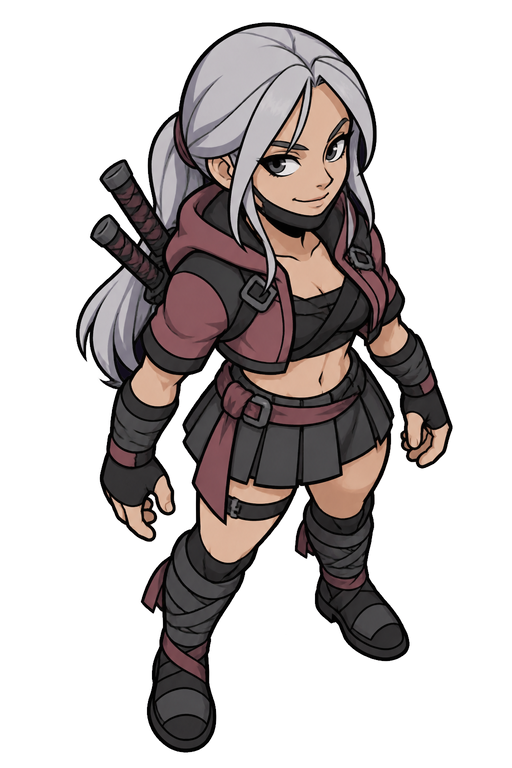
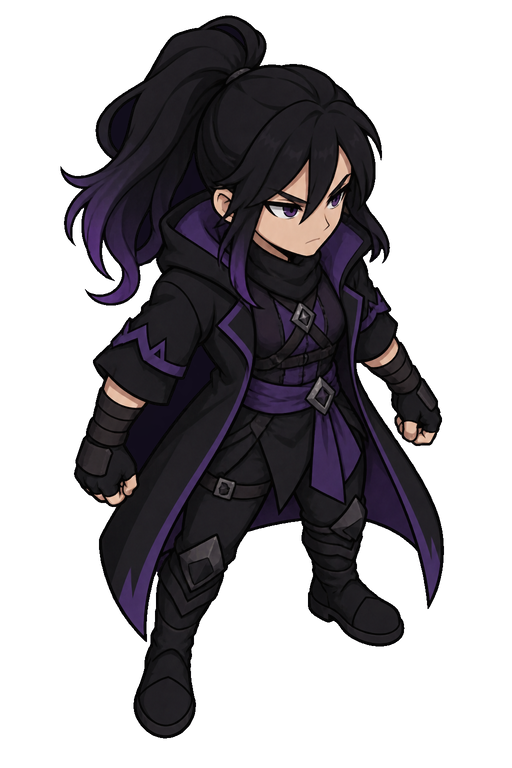
feat: new other-sex looks for six classes (same palette, own hair and outfit)

diff --git a/art_source/ai/skins/README.md b/art_source/ai/skins/README.md
@@ -1,7 +1,7 @@
 # Skins des personnages jouables
 
 Un dossier par perso (id historique, ex. `gunslinger` = Archère), avec :
-- `default/<female|male>/` : le skin par défaut (celui qu'on anime en premier, sprite = carte de sélection). Pour chaque perso, une **version de l'autre sexe** est prévue : **un tout autre personnage** (pas les mêmes couleurs ni le même design que la version d'origine), à générer ;
+- `default/<female|male>/` : le skin par défaut (celui qu'on anime en premier, sprite = carte de sélection). Pour chaque perso, une **version de l'autre sexe** : un autre personnage (coiffure et coupe de tenue à lui) dans **la même palette et avec les mêmes repères de classe** (choix du dev, 2026-10-08) ;
 - `unlockable/` : skins à débloquer par défis (à implémenter après, ADR à écrire).
 
 Nommage : `<id>_<skin>_<f|m>.png`. Modèle : `gpt-image-2.5-sunburst` (`tools/art/gen_image.py`, `--image` = version de référence). Style : proportions trapues, aplats, contour épais, mains vides. Tenues stylisées, non explicites.
@@ -9,12 +9,12 @@ Nommage : `<id>_<skin>_<f|m>.png`. Modèle : `gpt-image-2.5-sunburst` (`tools/ar
 ## Skins par défaut
 | Perso (id) | Skin par défaut | Version de l'autre sexe |
 |---|---|---|
-| Archère (`gunslinger`) | `default/female/gunslinger_red_f` (carmin, crème, or ; blonde, clip à plumes) | `default/male/gunslinger_ochre_m` (chasseur : cheveux bruns tressés, tunique ocre, cape de plumes, ocre, olive, brun) |
-| Mage (`mage`) | `default/female/mage_storm_f` (marine, cyan, blanc ; tresse blanche relevée) | `default/male/mage_burgundy_m` (érudit : lunettes rondes, barbe courte, manteau bordeaux et or) |
-| Berserker (`berserker`) | `default/female/berserker_slate_f` (ardoise, rouille, os ; cornes de bélier) | `default/male/berserker_wolf_m` (brute à manteau de loup, cheveux auburn, runes vertes ; sable, vert forêt, os) |
-| Épéiste (`ronin`) | `default/female/ronin_crimson_f` (acier laqué carmin, or, crème) | `default/male/ronin_indigo_m` (maître d'armes : cheveux gris argent, haori indigo et blanc) |
-| Assassin (`hero`) | `default/male/hero_shadow_m` (manteau noir à capuche, doublure violette ; archétype du chasseur d'ombre, aucun design de Solo Leveling copié) | `default/female/hero_rose_f` (assassine : cheveux argentés, veste rose poudré et gris charbon) |
-| Contrebandier (`merchant`) | `default/female/merchant_goggles_f` (tresses noires aux anneaux d'or, lunettes d'aviateur, boléro vert et or, sac à dos de breloques) | `default/male/merchant_coat_m` (blond plaqué, moustache, long manteau vert à liseré d'or, lanterne) |
+| Archère (`gunslinger`) | `default/female/gunslinger_red_f` (carmin, crème, or ; blonde, clip à plumes) | `default/male/gunslinger_red_m` (archer : blond, petite queue de cheval, capuche carmin, gilet carmin, chemise crème) |
+| Mage (`mage`) | `default/female/mage_storm_f` (marine, cyan, blanc ; tresse blanche relevée) | `default/male/mage_storm_m` (jeune mage : cheveux blancs courts rasés sur les côtés, petit chignon, manteau marine à runes cyan) |
+| Berserker (`berserker`) | `default/female/berserker_slate_f` (ardoise, rouille, os ; cornes de bélier) | `default/male/berserker_slate_m` (crête bleu ardoise, barbe tressée, sans cornes, fourrure, rouille et os) |
+| Épéiste (`ronin`) | `default/female/ronin_crimson_f` (acier laqué carmin, or, crème) | `default/male/ronin_crimson_m` (cheveux auburn courts, barbe, armure carmin et or plus massive) |
+| Assassin (`hero`) | `default/male/hero_shadow_m` (manteau noir à capuche, doublure violette ; archétype du chasseur d'ombre, aucun design de Solo Leveling copié) | `default/female/hero_shadow_f` (assassine : longue queue de cheval noire aux pointes violettes, manteau noir doublé de violet) |
+| Contrebandier (`merchant`) | `default/female/merchant_goggles_f` (tresses noires aux anneaux d'or, lunettes d'aviateur, boléro vert et or, sac à dos de breloques) | `default/male/merchant_goggles_m` (cheveux bouclés, moustache, lunettes d'aviateur, long manteau vert et or, sac à dos) |
 | Chasseur novice (`drifter`) | `default/female/drifter_ribbon_f` (queue de cheval au ruban bleu, tunique rapiécée, gros bracelets de cuir) | `default/male/drifter_badge_m` (blond hérissé, tunique crème trop grande, médaille de chasseur) |
 
 ## Skins à débloquer
